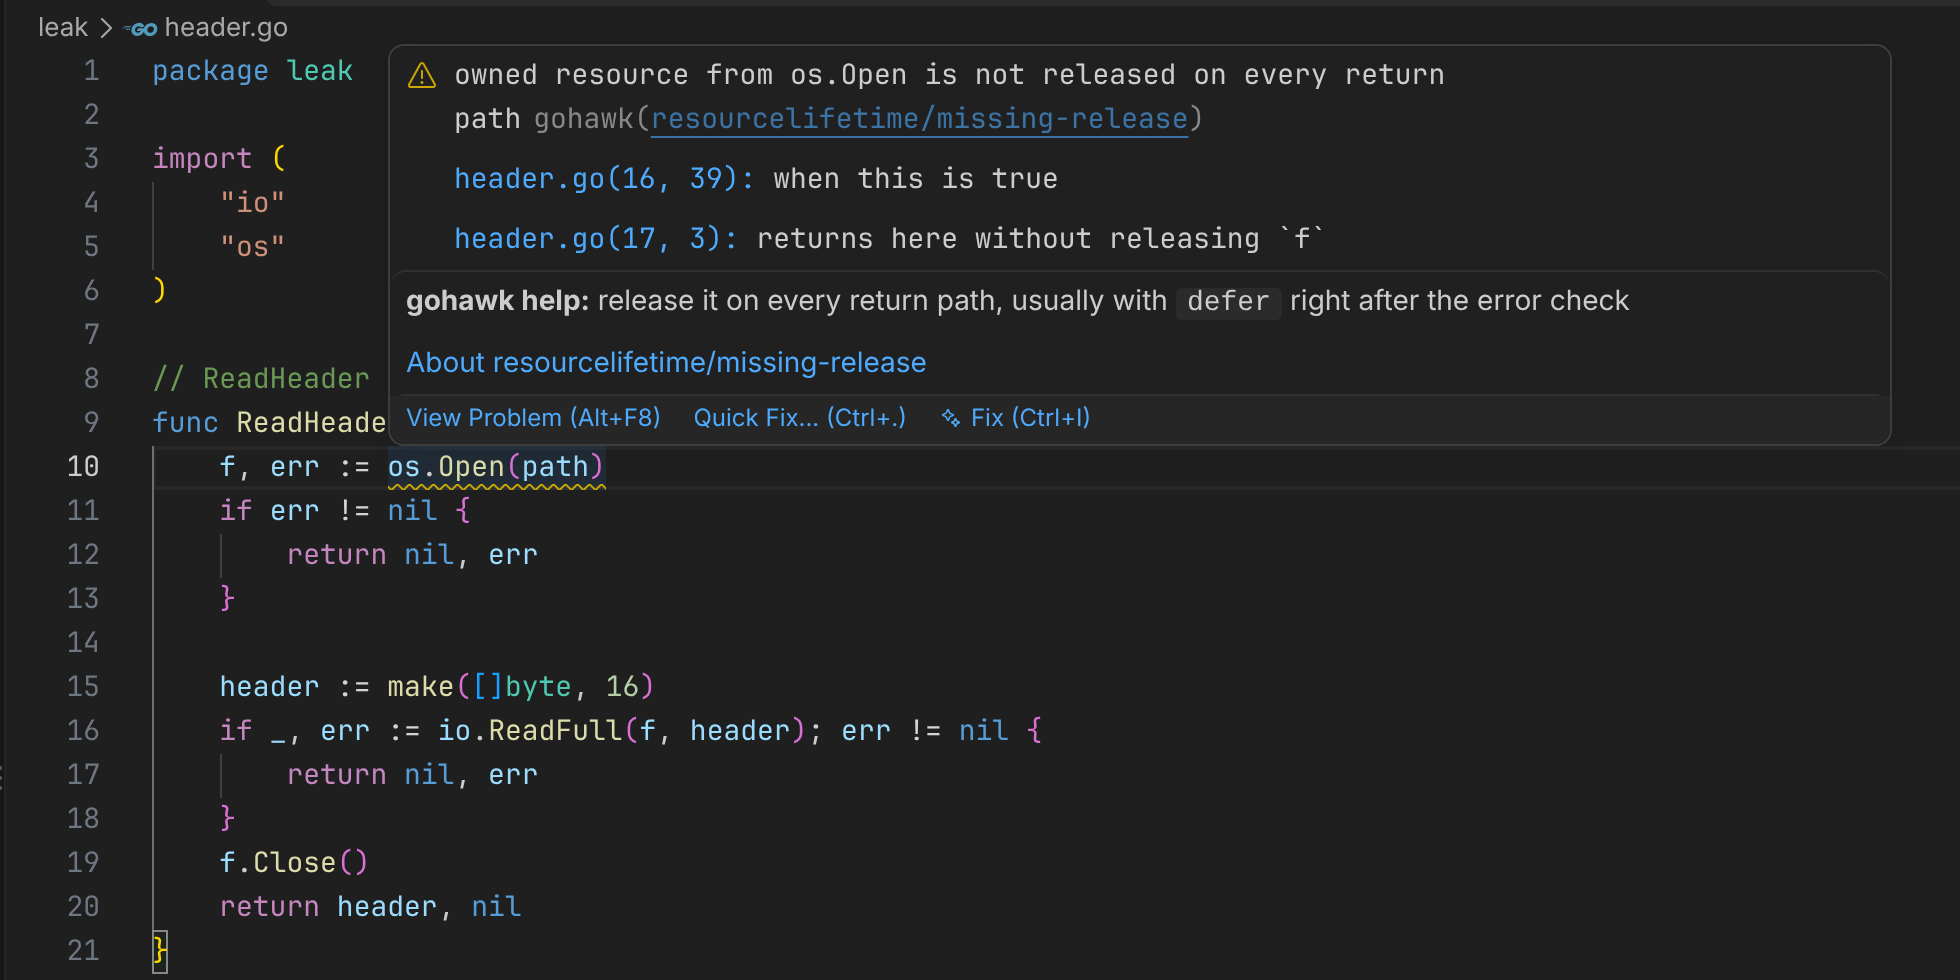
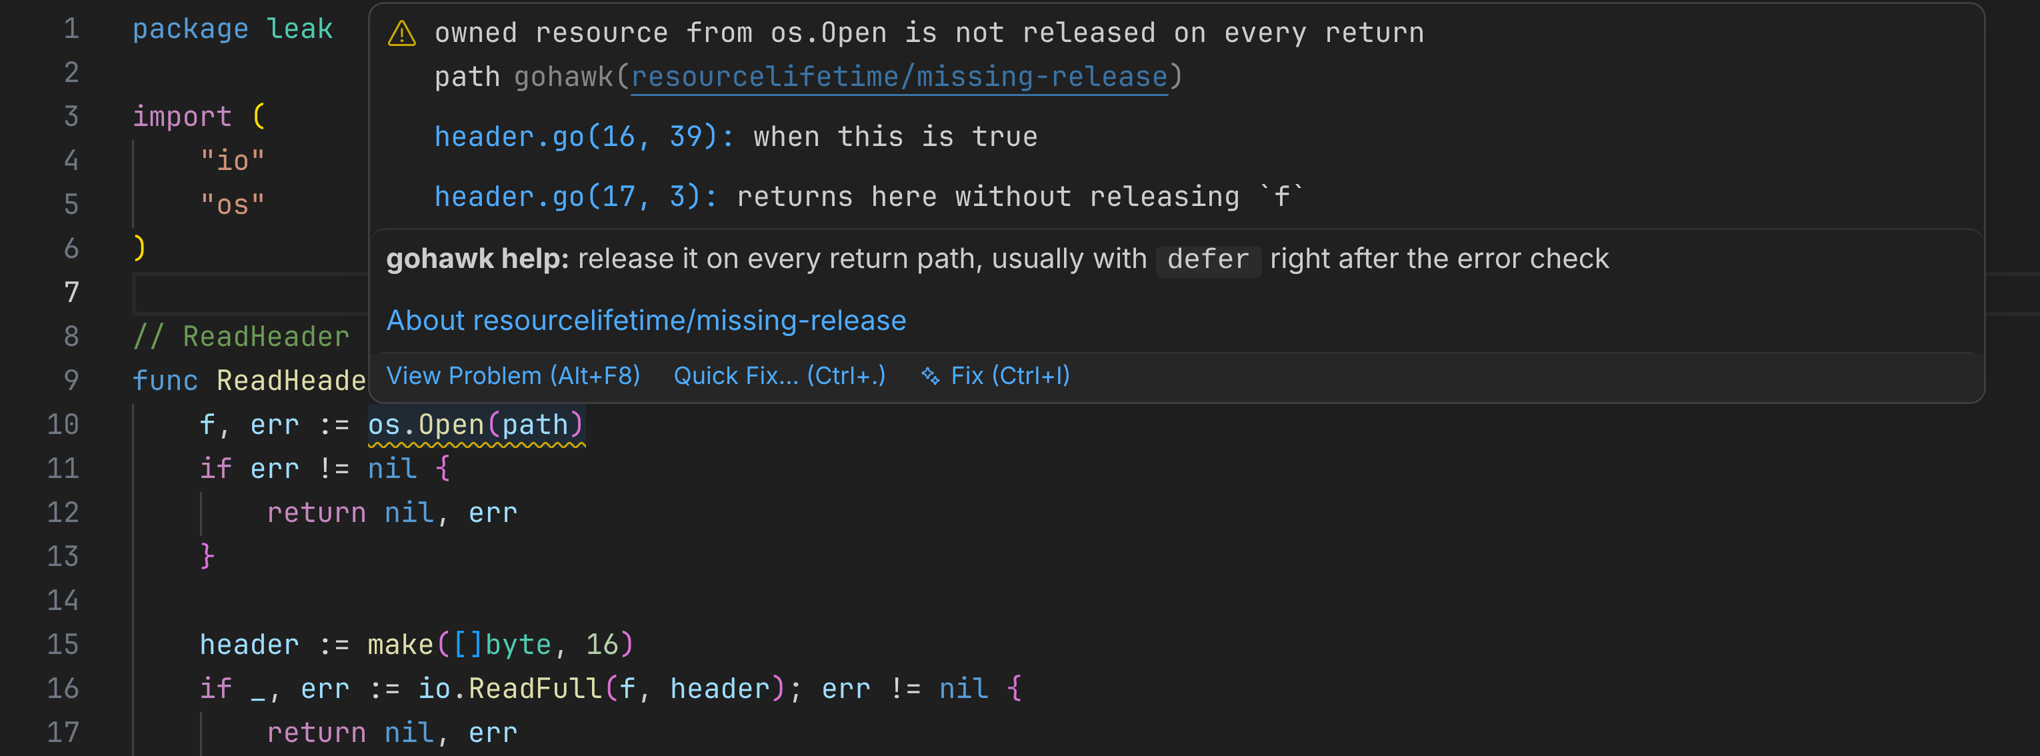
Add the extension to the README and tighten its screenshots

diff --git a/README.md b/README.md
@@ -62,6 +62,17 @@ gohawk -disable-groups=concurrency ./...
 gohawk -enable-all ./...
 ```
 
+## VSCode/Cursor extension
+
+The gohawk extension shows findings as you type, with the steps that lead to
+each one. Search for **gohawk** in the Extensions view of VS Code or Cursor.
+The gohawk binary is included.
+
+![A gohawk finding in VS Code, with the steps that lead to it and the usual fix](editors/vscode/images/finding.png)
+
+See the [extension guide](https://gohawk.dev/vscode/) for path stepping and
+settings.
+
 ## How gohawk compares to other analyzers
 
 gohawk aims to complement other Go analyzers, not replace them. Deep, flow-based analysis of Go already covers several domains well.
